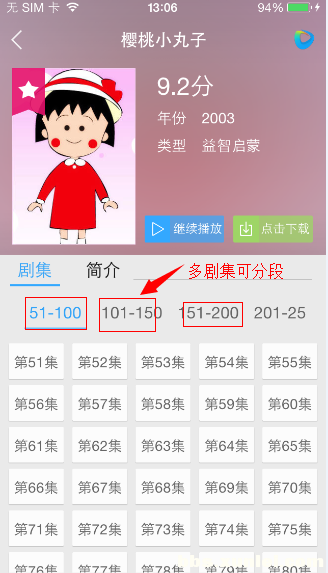
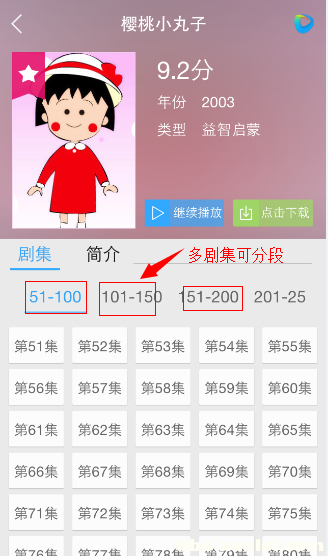
add

diff --git a/feng_app/lib/test/my_app.dart b/feng_app/lib/test/my_app.dart
@@ -1,6 +1,3 @@
-import 'dart:math';
-
-import 'package:fengapp/utility/http_util.dart';
 import 'package:flutter/material.dart';
 
 class MyApp extends StatelessWidget {
@@ -107,7 +104,7 @@ class _MyHomePageState extends State<MyHomePage>
 
   topContainer() {
     return Container(
-      color: Color(int.parse('BD8E9C', radix: 16)).withAlpha(250),
+//      color: Color(int.parse('BD8E9C', radix: 16)).withAlpha(250),
       child: Row(
         children: <Widget>[
           thumbContainer(),
@@ -119,13 +116,13 @@ class _MyHomePageState extends State<MyHomePage>
 
   thumbContainer() {
     return Container(
-      height: 222,
+      height: 243,
       width: 172,
       child: Image.asset(
         'img/yingtao.png',
         fit: BoxFit.fill,
       ),
-      padding: EdgeInsets.fromLTRB(18, 0, 0, 12),
+      padding: EdgeInsets.fromLTRB(15, 12, 2, 0),
     );
   }
 
